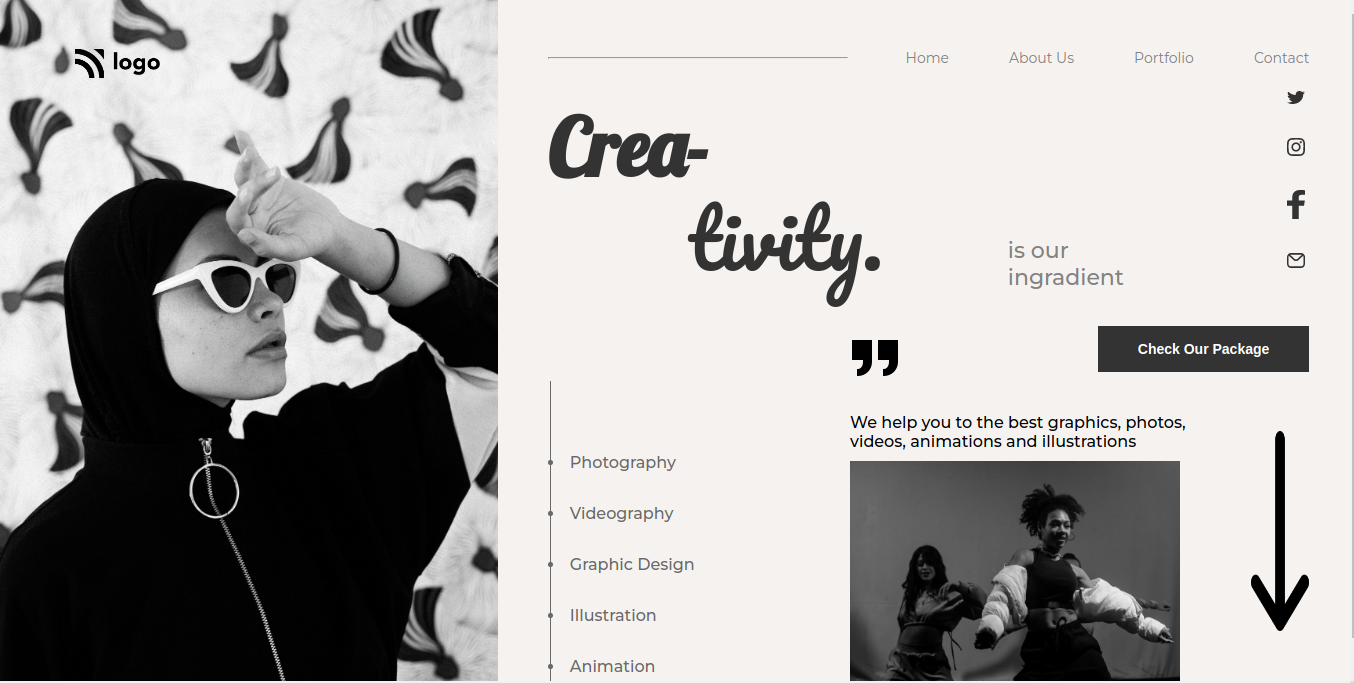
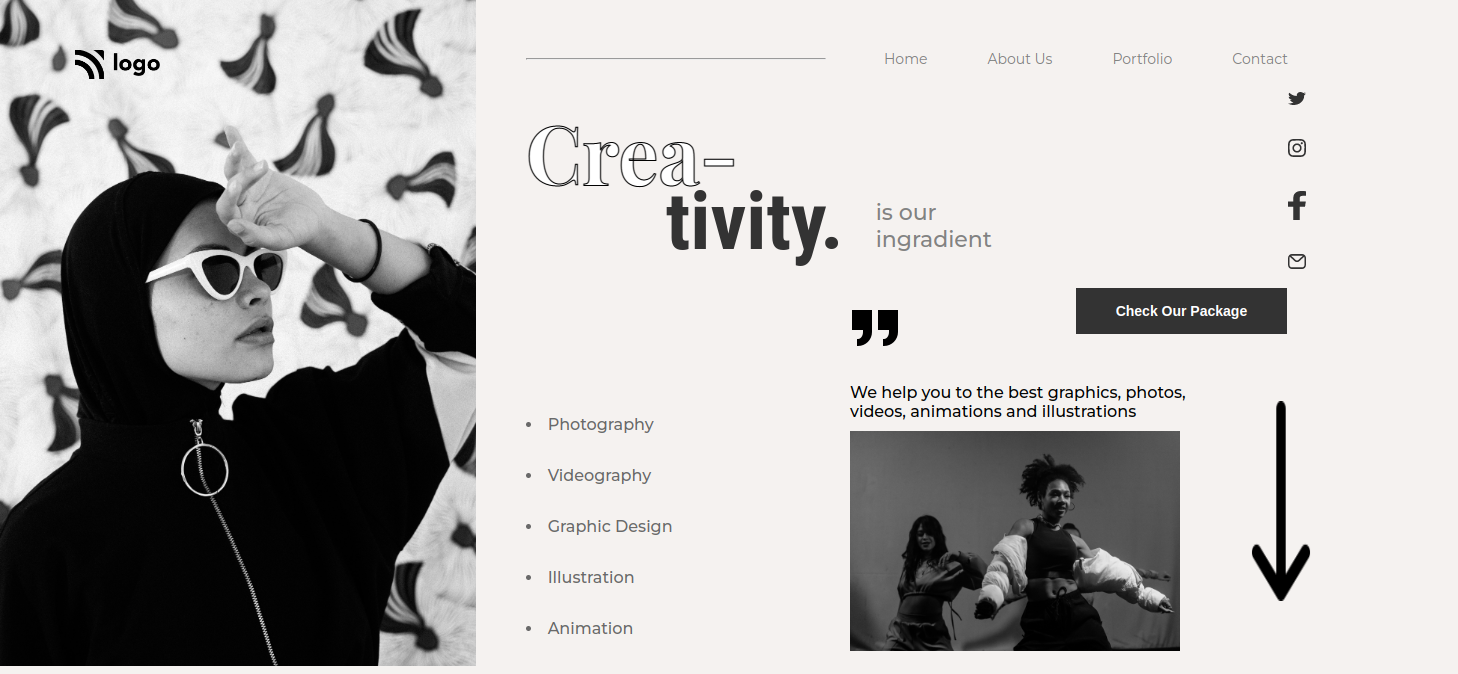
made responsive

diff --git a/style.css b/style.css
@@ -146,3 +146,72 @@ li > img{
 li:hover{
     color:#000000;
 }
+.menu{
+    display: none;
+}
+@media screen and (max-width: 700px) {
+    .left-img{
+        display: none;
+    }
+    .line{
+        display: none;
+    }
+    nav > li{
+        padding: 10px;
+    }
+    .menu{
+        display: inline;
+        float: right;
+    }
+    .left-section{
+        display: flex;
+        justify-content: space-between;
+        margin: 5px;
+    }
+    .logo{
+        position: static;
+        height: 30px;
+    }
+    .heading{
+        position: relative;
+        right: 80px;
+        top: 20px;
+    }
+    .heading > h1{
+        font-size: 60px;
+    }
+    .heading-para > p{
+        font-size: 15px;
+    }
+    .heading-para{
+        top: -35px;
+        left: 200px;
+    }
+    .design-list > li{
+        font-size: 12px;
+        padding: 15px 0;
+    }
+    .design-list{
+        position: relative;
+        right: 120px;
+        top: 100px;
+    }
+    .package-btn{
+        position: relative;
+        left: 20px;
+        top: 0px;
+        padding: 10px 20px;
+        font-size: 13px;
+    }
+    .middle{
+        position: relative;
+        left: -800px;
+        top: 150px;
+    }
+    .top{
+        margin: 0;
+        position: absolute;
+        right: 0px;
+        top: 5px;
+    }
+}

diff --git a/index.html b/index.html
@@ -43,10 +43,11 @@
             <li>Illustration</li>
             <li>Animation</li>
         </div>
-        <img src="./images/icons8-get-quote-50.png" alt="Quote" class="quote">
-        <p class="last-para">We help you to the best graphics, photos, videos, animations and illustrations</p>
-        <img src="./images/pexels-cottonbro-7974875.jpg" alt="Dance" class="last-img">
-        <div class="v-line"></div>
+        <div class="middle">
+            <img src="./images/icons8-get-quote-50.png" alt="Quote" class="quote">
+            <p class="last-para">We help you to the best graphics, photos, videos, animations and illustrations</p>
+            <img src="./images/pexels-cottonbro-7974875.jpg" alt="Dance" class="last-img">
+        </div>
         <img src="./images/down-arrow" alt="down-arrow" class="down-arrow">
     </div>
 </body>

diff --git a/README.md b/README.md
@@ -2,13 +2,17 @@
 13th August 2022
 ## Full Stack Javascript Web Development Course by [iNeuron](https://ineuron.ai/)
 
-This website is created with HTML and CSS only. It is not mobile responsive. I will update this project very soon to make it mobile responsive. It took me almost 4 hours to complete this project.This project helped me to learn planning for designing web page, editing svg images. Images and icons are collected from [icons8](https://icons8.com/) and [iNeuron](https://ineuron.ai/).
+This webpage is created with HTML and CSS only. It is a mobile responsive webpage and I used media query to make it responsive. It took me almost 6 hours to complete this project. This project helped me to learn planning for designing web page, editing svg images. Images and icons are collected from [icons8](https://icons8.com/) and [iNeuron](https://ineuron.ai/).
 
 [Click Here](https://fsjs-assignment14.netlify.app/) to view the website.
 
-### Screenshot of the full web-page:
+## Screenshot of the full web-page:
 
 ![Full website](./images/Screenshot_20220813_174612.png)
+
+## Screenshot of full webpage in smaller screen:
+
+![responsive](./images/mobile.png)
 
 ## Contact me: [Linkedin](https://www.linkedin.com/in/subham-dutta-8670b8178/) | [Github](https://github.com/Sduttt) | [Twitter](https://twitter.com/Subhamd88404337) | [Facebook](https://www.facebook.com/profile.php?id=100073951804006) | [Instagram](https://www.instagram.com/its_subham_dutta/)
 
